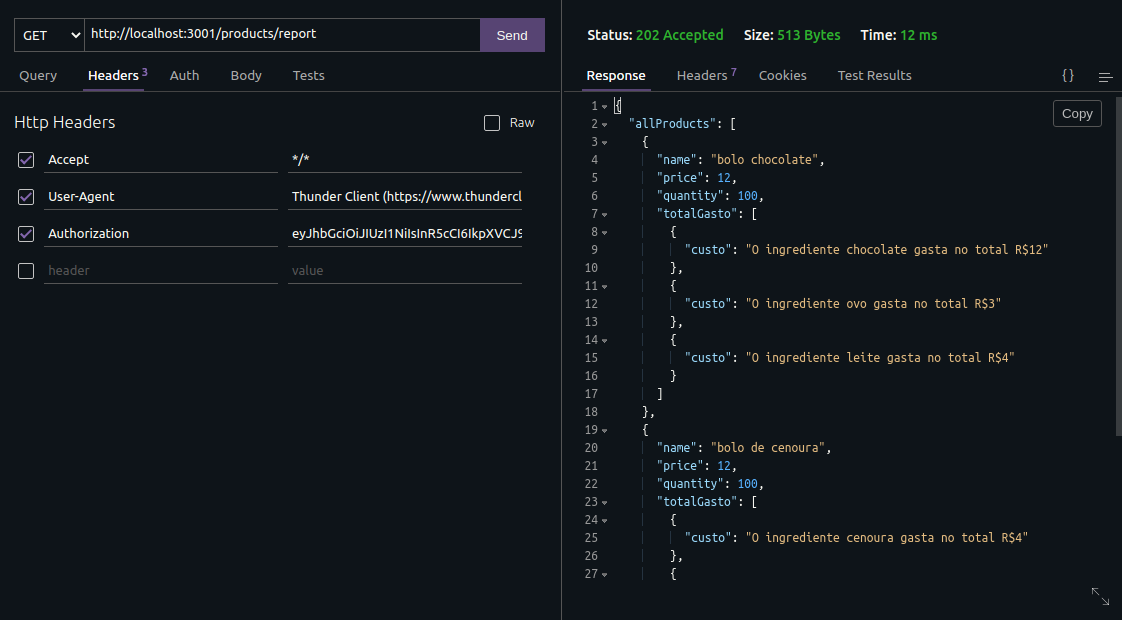
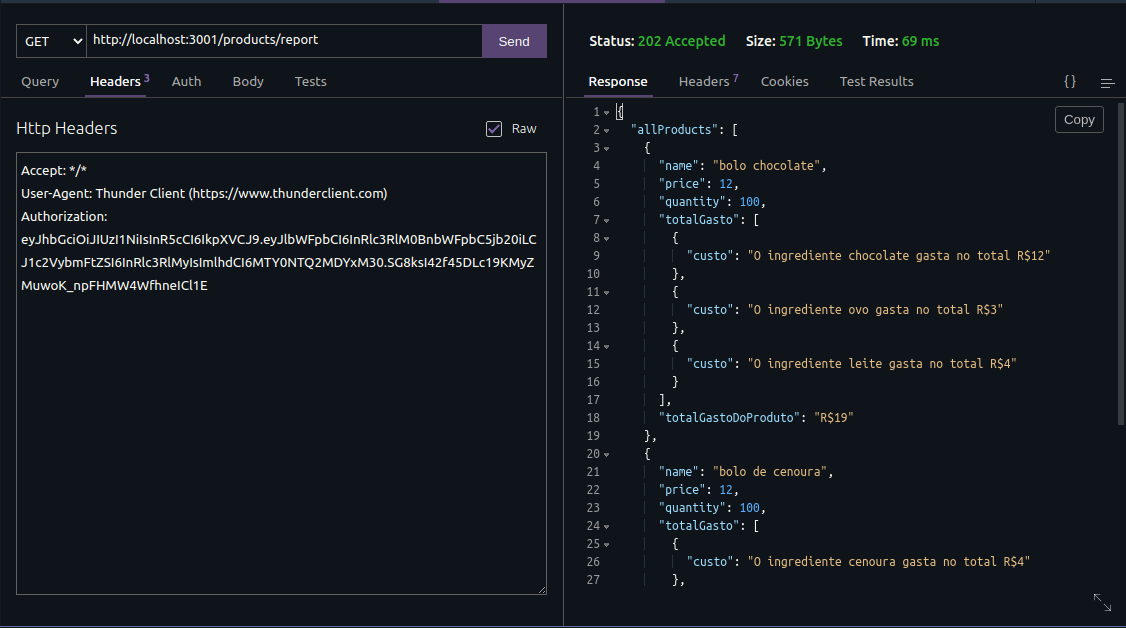
final commit

diff --git a/src/services/products/relatorio.js b/src/services/products/relatorio.js
@@ -18,13 +18,20 @@ module.exports = async (token) => {
 
     const response = allProducts.map((product) => {
       let totalGasto = {};
+      let total = 0;
+
       totalGasto = product.ingredients.map(({ name, price, quantity }) => {
         let total = price * quantity;
         return { custo: `O ingrediente ${name} gasta no total R$${total}` };
       });
 
+      totalGasto.map((gasto) => {
+        const div = Number(gasto.custo.split('$')[1]);
+        total += div;
+      })
+
       const { name, price, quantity } = product;
-      product = { name, price, quantity, totalGasto };
+      product = { name, price, quantity, totalGasto, totalGastoDoProduto: `R$${total}` };
       return product;
     });
 

diff --git a/src/models/products/relatorio.js b/src/models/products/relatorio.js
@@ -1,6 +1,7 @@
 const connection = require("../connection");
 const { ObjectId } = require("mongodb");
 
+/* Busca todos produtos do dono no banco de dados */
 module.exports = async (_id) => {
   const db = await connection();
 
@@ -14,6 +15,7 @@ module.exports = async (_id) => {
         price: 1,
         quantity: 1,
         ingredients: 1,
+        userId: 0,
         image: 0,
       }
     )

diff --git a/README.md b/README.md
@@ -2,7 +2,7 @@
 
 ## Sobre o projeto
 
-Desafio Técnico para processo seletivo, este projeto consiste na implementação de um um sistema de controle de estoque com um login, CRUD de produtos.
+Desafio Técnico para processo seletivo, este projeto consiste na implementação de um sistema de controle de estoque com um login, CRUD de produtos.
 
 Onde feito o login e gerado um token para a autenticação do usuário, pois apenas o próprio usuário pode ver, criar, atualizar e deletar seus produtos em estoque.
 
@@ -24,13 +24,13 @@ Este projeto Utiliza o banco de dados MongoDB, para o funcionamento é necessár
 
 ## Instalação
 
--Clone o repositório através da seguinte chave https: `https://github.com/devwelljr/desafio-pro-franchising.git`
+— Clone o repositório através da seguinte chave https: `https://github.com/devwelljr/desafio-pro-franchising.git`
 
--Instale as dependências, entrando na raiz dando `npm install`.
+— Instale as dependências, entrando na raiz dando `npm install`.
 
--Crie um arquivo de variáveis de ambiente na raiz, `.env` seguindo o arquivo `.env.example` como exemplo.
+— Crie um arquivo de variáveis de ambiente na raiz, `.env` seguindo o arquivo `.env.example` como exemplo.
 
--Para rodar a aplicação de `npm start` ou `npm run dev` na raiz.
+— Para rodar a aplicação de `npm start` ou `npm run dev` na raiz.
 
 ## Como utilizar
 
@@ -41,50 +41,50 @@ A aplicação começa com o cliente tendo que fazer login ou se cadastrar, onde 
 ### Cadastro(POST): http://localhost:3001/users/register
 
 No cadastro para se criar uma conta o usuário precisa cadastrar seu `usuário` com no mínimo 4 carácteres, sua `senha` com no mínimo 6 carácteres e um `email` válido.
-PS: O `email` é unico no sistema, não sendo possível ter dois usuários com o mesmo email.
+PS: O `email` é único no sistema, não sendo possível ter dois usuários com o mesmo email.
 
 ### Cadastro de produto(POST): http://localhost:3001/products/new
 
-Apos o login, um `token JWT` e retornado, para inserir novos produtos e obrigatorio esta logado, passando no `header` um campo chamado `authorization` com o token.
+Apos o login, um `token JWT` e retornado, para inserir novos produtos e obrigatório está logado, passando no `header` um campo chamado `authorization` com o token.
 
 ![authorization](./src/images/authorization.png)
 
-Um novo produto deve ser passado como objeto pro body da requisicao, onde deve-se obrigatoriamente colocar os seguintes chaves e valores:
+Um novo produto deve ser passado como objeto pro body da requisição, onde se deve obrigatoriamente colocar os seguintes chaves e valores:
 
 Exemplo:
 ![newProduct](./src/images/newProduct.png)
 
 ### Inserir imagem no produto(PUT): http://localhost:3001/products/:id/image
 
-Para inserir a imagem no produto ela deve ser nos formatos `PNG/JPG` no field `image`, junto com o ID do produto passado na URL.
+Para inserir a imagem no produto ela deve ser nos formatos `PNG/JPG` no field `image`, com o ID do produto passado na URL.
 
 Exemplo:
 ![imgProduct](./src/images/newImg.png)
 
-### Visualizar todos produtos(GET): http://localhost:3001/products/myProducts
+### Visualizar todos os produtos(GET): http://localhost:3001/products/myProducts
 
-Para visualizar todos os produtos e nescessario o `token JWT` no `header` com um campo chamado `authorization`.
+Para visualizar todos os produtos e necessário o `token JWT` no `header` com um campo chamado `authorization`.
 
 Exemplo:
 ![allProducts](./src/images/allProducts.png)
 
 ### Deletar um produto(DELETE): http://localhost:3001/products/deleteProduct/:id
 
-Para deletar o produto e nescessario o `token JWT` no `header` com um campo chamado `authorization` e o ID do produto na url.
+Para deletar o produto e necessário o `token JWT` no `header` com um campo chamado `authorization` e o ID do produto na URL.
 
 Exemplo:
 ![deleteProduct](./src/images/deleteProduct.png)
 
 ### Atualizar um produto(PUT): http://localhost:3001/products/edit/:id
 
-Para atualizar o produto e nescessario o `token JWT` no `header` com um campo chamado `authorization`, o ID do produto na url e o body com os campos e valores do que deseja alterar.
+Para atualizar o produto e necessário o `token JWT` no `header` com um campo chamado `authorization`, o ID do produto na URL e o body com os campos e valores do que deseja alterar.
 
 Exemplo:
 ![updateProduct](./src/images/updateProduct.png)
 
-### Relatorio do custo dos ingredientes dos produtos(GET): http://localhost:3001/products/report
+### Relatório do custo dos ingredientes dos produtos(GET): http://localhost:3001/products/report
 
-Para acessar o relatorio de gastos com ingredientes e nescessario o `token JWT` no `header` com um campo chamado `authorization`,.
+Para acessar o relatório de gastos com ingredientes e necessário o `token JWT` no `header` com um campo chamado `authorization`, ele ira retornar o custo de cada ingrediente dos produtos do dono.
 
 Exemplo:
 ![report](./src/images/report.png)
